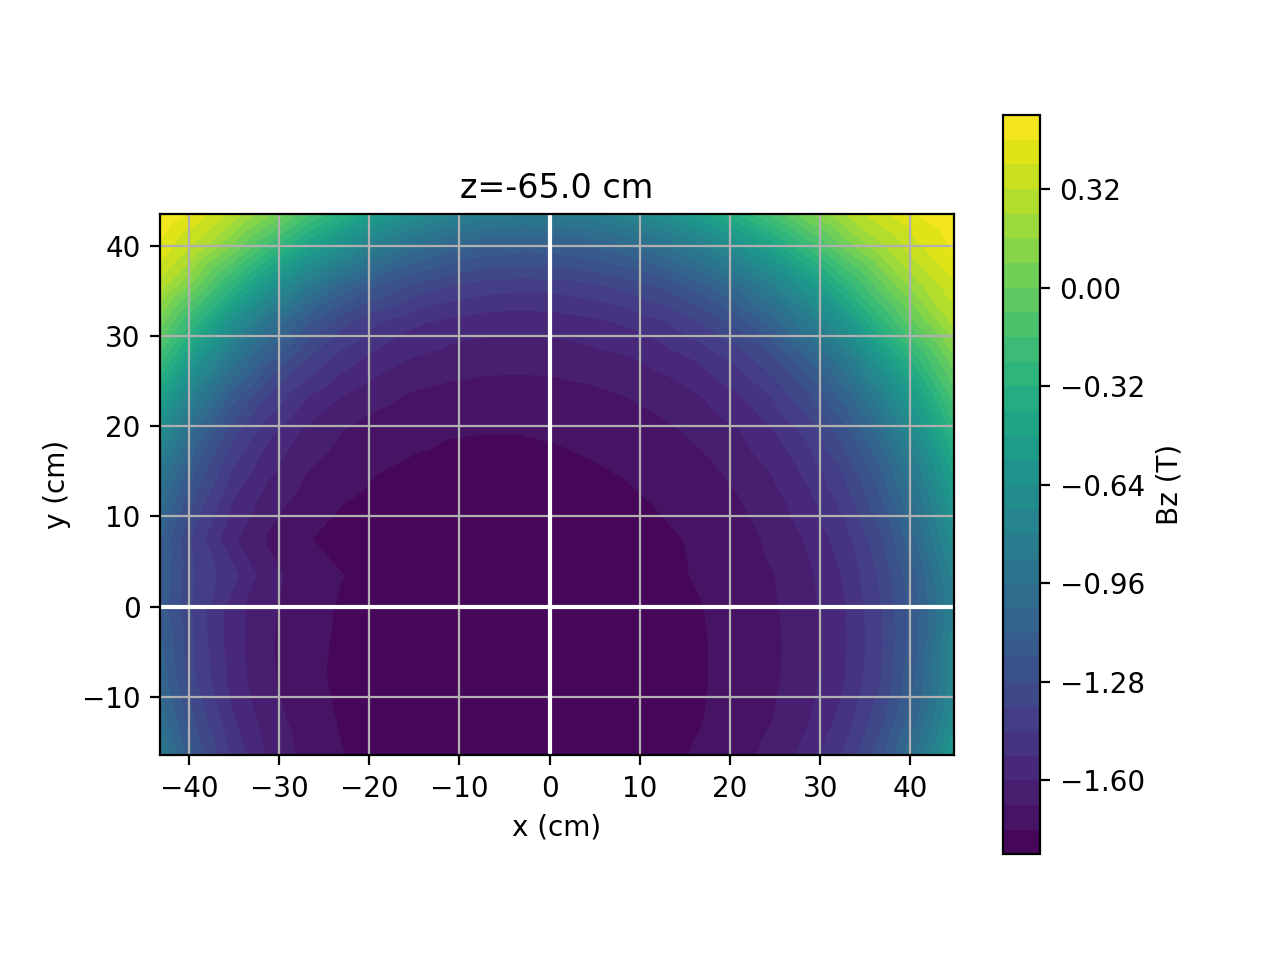
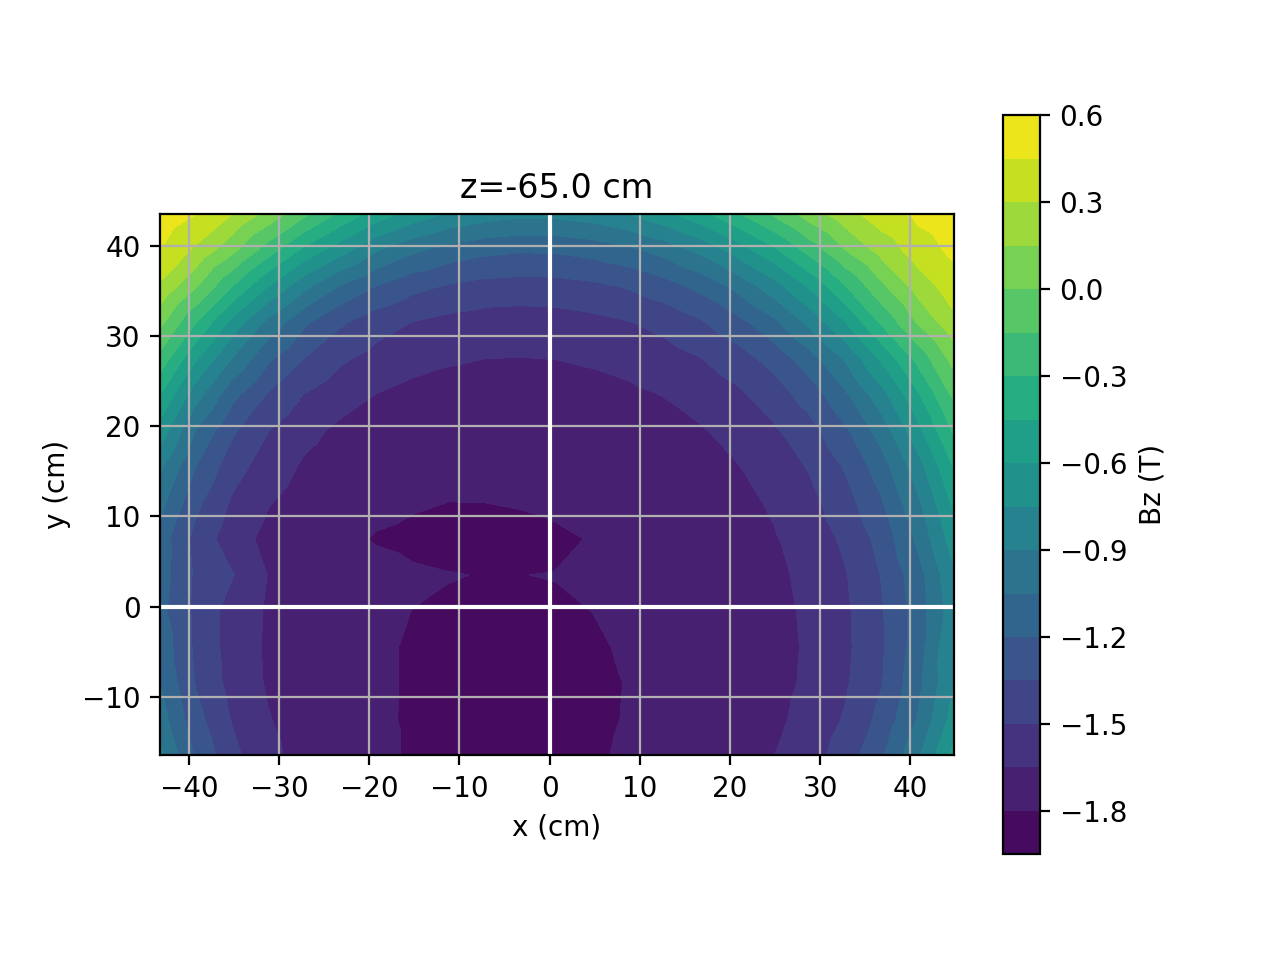
Added DeltaB normalized plots

diff --git a/plot_results.py b/plot_results.py
@@ -42,7 +42,7 @@ for z, z_grp in results.groupby('z'):
         fig = plt.figure()
         ax = fig.add_subplot()
         ax.set_aspect('equal', adjustable='box')
-        plt.tricontourf(x, y, B, levels=30)
+        plt.tricontourf(x, y, B, levels=20)
         plt.colorbar(label=f'{field} (T)')
         plt.axhline(color='white')
         plt.axvline(color='white')
@@ -53,16 +53,45 @@ for z, z_grp in results.groupby('z'):
         plt.savefig(f'images/{field}_z={z}_cm.png', dpi=200)
 
         ## Interpolate to find the location of the field center
-        if field == 'Br':
+        if field == 'Br' or field == 'Bz':
             B_function = interpolate.interp2d(np.unique(x), np.unique(y), B, kind='cubic')
             x_interp = np.linspace(min(x), max(x), 200)
             y_interp = np.linspace(min(y), max(y), 200)
             B_interp = B_function(x_interp, y_interp)
 
-            yMaxIndex, xMaxIndex = np.where(np.abs(B_interp) == np.amin(np.abs(B_interp)))
+            if field == 'Br':
+                yMaxIndex, xMaxIndex = np.where(np.abs(B_interp) == np.amin(np.abs(B_interp)))
+            if field == 'Bz':
+                yMaxIndex, xMaxIndex = np.where(np.abs(B_interp) == np.amax(np.abs(B_interp)))
             xMax = x_interp[xMaxIndex]
             yMax = y_interp[yMaxIndex]
-            print(f'The interpolated center of the plane z={z} cm is at (x, y) = {xMax}, {yMax}')
+            print(f'The {field}-field interpolated center of the plane z={z} cm is at (x, y) = {xMax}, {yMax}')
+
+        ## Plots showing symmetry
+        if field == 'Bz':
+            xLim = 16
+            yLim = 16
+            xSteps = int(xLim / 2 + 1) # spacing of 4 cm
+            ySteps = int(yLim / 2 + 1) # spacing of 4 cm
+            x_interp = np.linspace(-xLim, xLim, xSteps)
+            y_interp = np.linspace(-yLim, yLim, ySteps)
+            B_interp = B_function(x_interp, y_interp)
+
+            # Delta B is the difference between opposite points around the center
+            DeltaB = B_interp - np.flip(B_interp)
+            DeltaBNormalized = DeltaB / B_interp
+            fig = plt.figure()
+            ax = fig.add_subplot()
+            ax.set_aspect('equal', adjustable='box')
+            plt.contourf(x_interp, y_interp, DeltaBNormalized, levels=5)
+            plt.colorbar(label=f'Normalized symmetry $\Delta${field}/{field}')
+            plt.axhline(color='white')
+            plt.axvline(color='white')
+            plt.xlabel('x (cm)')
+            plt.ylabel('y (cm)')
+            plt.title(f'z={z} cm')
+            plt.grid('on')
+            plt.savefig(f'images/Delta{field}_z={z}_cm.png', dpi=200)
 
 ## Flux lines streamplot
 z_plane = 0.0 # cm
